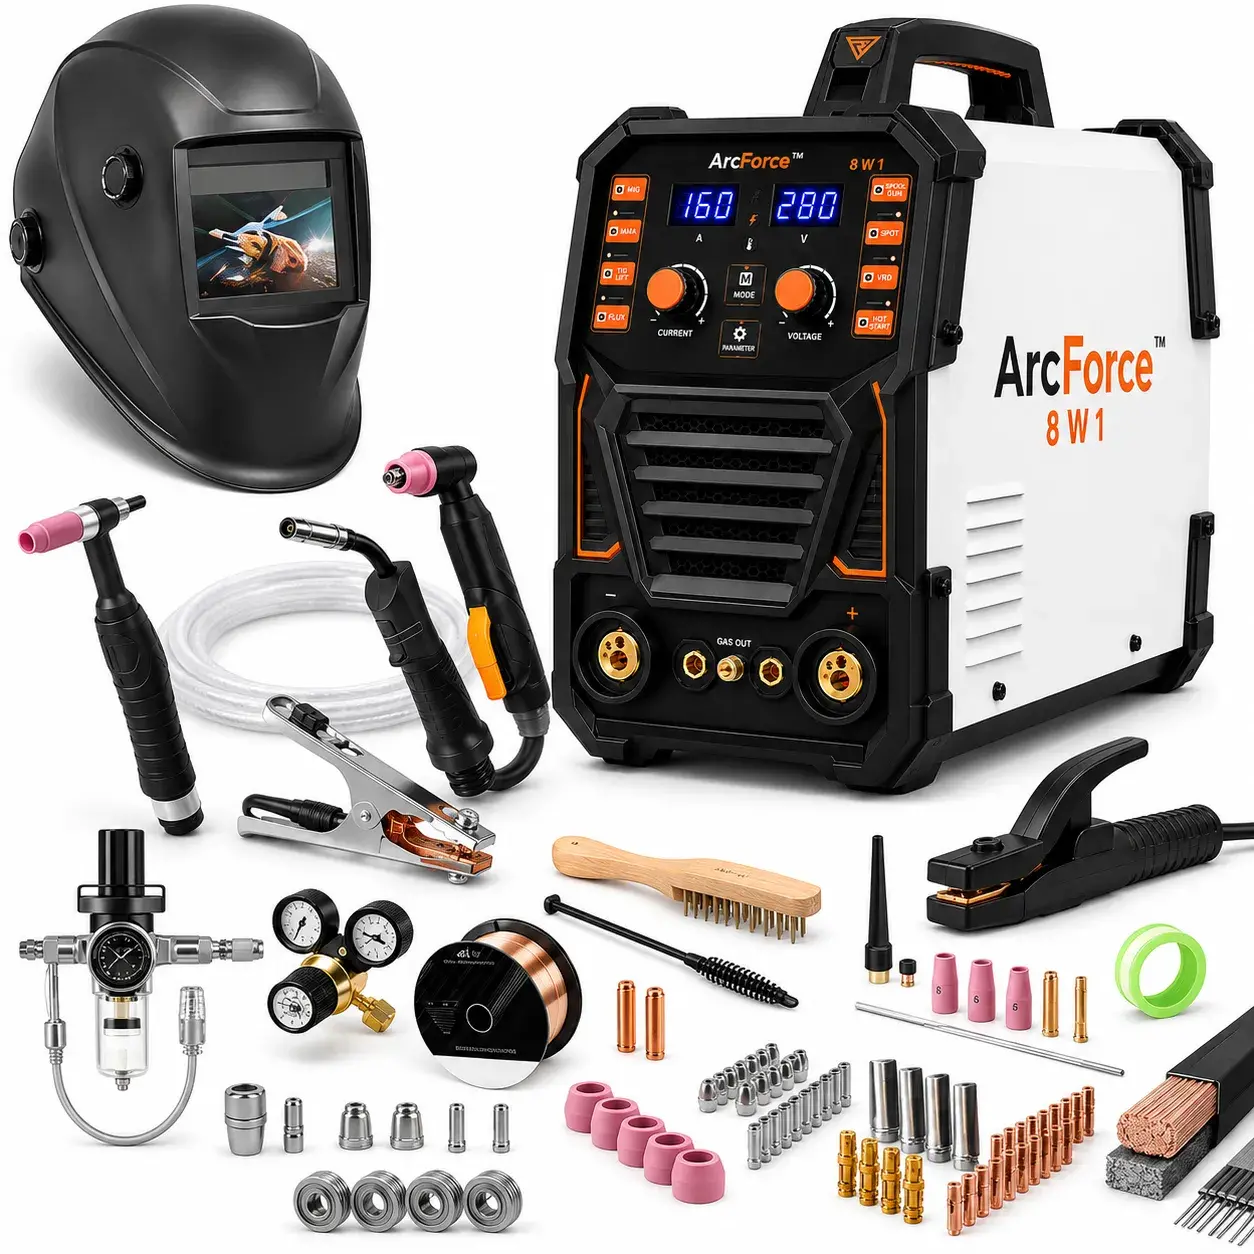
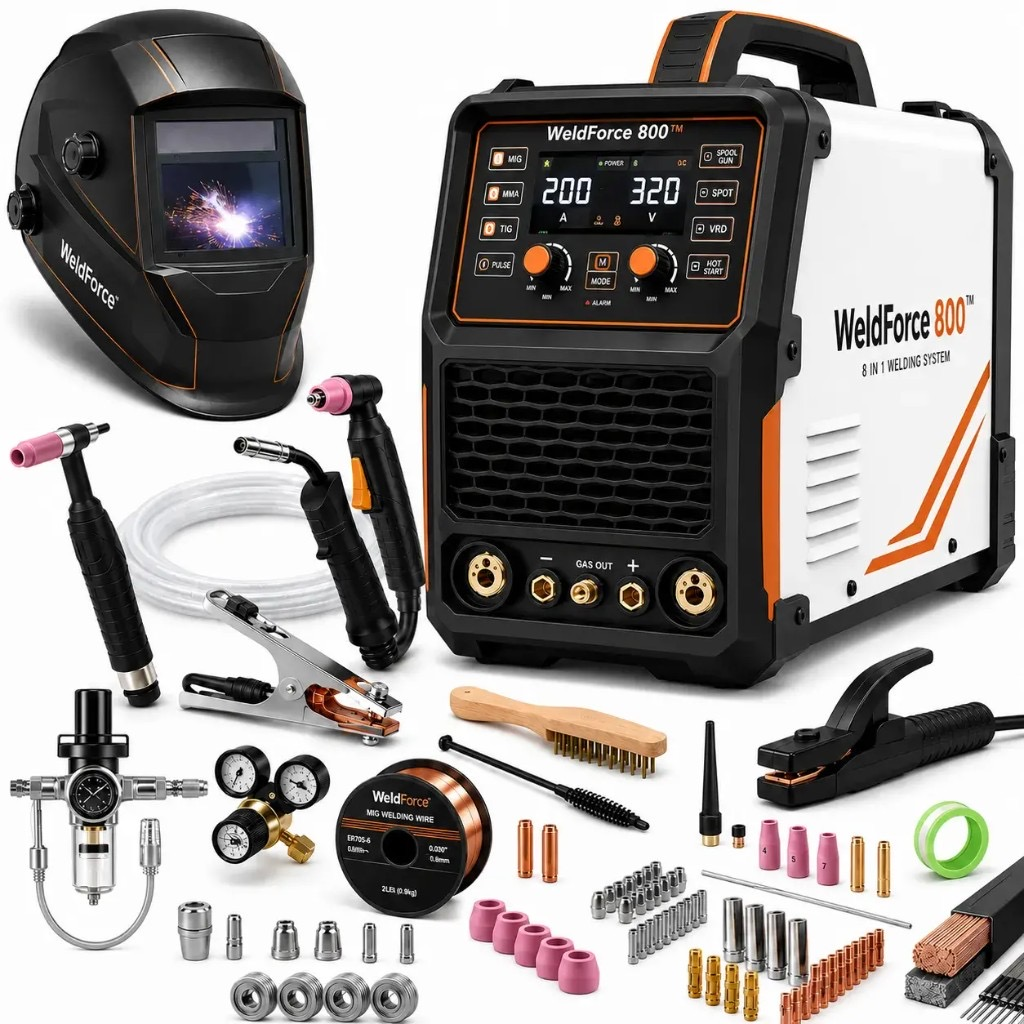
Replace ArcForce assets with WeldForce 800 product photos

diff --git a/it/arcforce/landing.html b/it/arcforce/landing.html
@@ -20,13 +20,13 @@
 <meta property="og:type" content="product">
 <meta property="og:title" content="WeldForce 800™ — Saldatrice 8 in 1 | -70% Solo Oggi">
 <meta property="og:description" content="Saldatrice professionale 8 in 1 senza bombola. Presa 220V, controllo automatico. Pagamento alla consegna.">
-<meta property="og:image" content="https://powercurvemedia.com/assets/img/products/arcforce/hero.webp">
+<meta property="og:image" content="https://powercurvemedia.com/assets/img/products/arcforce/hero.png">
 <meta property="og:url" content="https://powercurvemedia.com/it/arcforce/landing.html">
 <meta name="twitter:card" content="summary_large_image">
 <link rel="icon" type="image/svg+xml" href="/favicon.svg">
 <link rel="preconnect" href="https://fonts.googleapis.com">
 <link rel="preconnect" href="https://fonts.gstatic.com" crossorigin>
-<link rel="preload" as="image" type="image/webp" href="/assets/img/products/arcforce/hero.webp" fetchpriority="high">
+<link rel="preload" as="image" type="image/png" href="/assets/img/products/arcforce/hero.png" fetchpriority="high">
 <link rel="stylesheet" href="https://fonts.googleapis.com/css2?family=Montserrat:wght@400;600;700;800;900&display=swap">
 <link rel="stylesheet" href="/assets/css/variables.css">
 <link rel="stylesheet" href="/assets/css/reset.css">
@@ -249,7 +249,7 @@
   "@context": "https://schema.org",
   "@type": "Product",
   "name": "WeldForce 800™ — Saldatrice Professionale 8 in 1",
-  "image": "https://powercurvemedia.com/assets/img/products/arcforce/hero.webp",
+  "image": "https://powercurvemedia.com/assets/img/products/arcforce/hero.png",
   "description": "Saldatrice professionale 8 in 1: laser, MIG senza gas, TIG, elettrodo, punti e taglio. Funziona con presa 220V. Salda alluminio, ghisa, acciaio, ferro e inox.",
   "brand": { "@type": "Brand", "name": "WeldForce 800" },
   "offers": {
@@ -283,12 +283,12 @@ window.SITE_CONFIG = {
   COOKIE_LEARN: 'Scopri di più'
 };
 window.POPUP_PURCHASES = [
-  { "initial": "A", "name": "Andrea P.", "image": "/assets/img/reviews/arcforce/popup-1.webp", "message": " ha appena ordinato WeldForce 800™", "time": "2 minuti fa, Milano" },
-  { "initial": "M", "name": "Michele D.", "image": "/assets/img/reviews/arcforce/popup-2.webp", "message": " ha appena confermato l'ordine", "time": "5 minuti fa, Torino" },
-  { "initial": "F", "name": "Fabio L.", "image": "/assets/img/reviews/arcforce/popup-3.webp", "message": " ha appena acquistato WeldForce 800™", "time": "8 minuti fa, Napoli" },
-  { "initial": "L", "name": "Luca R.", "image": "/assets/img/reviews/arcforce/popup-1.webp", "message": " ha completato l'ordine", "time": "12 minuti fa, Roma" },
-  { "initial": "G", "name": "Giuseppe B.", "image": "/assets/img/reviews/arcforce/popup-2.webp", "message": " ha appena ordinato (consegna domani)", "time": "18 minuti fa, Bologna" },
-  { "initial": "S", "name": "Stefano M.", "image": "/assets/img/reviews/arcforce/popup-3.webp", "message": " ha confermato il suo ordine", "time": "24 minuti fa, Firenze" }
+  { "initial": "A", "name": "Andrea P.", "image": "/assets/img/reviews/arcforce/popup-1.png", "message": " ha appena ordinato WeldForce 800™", "time": "2 minuti fa, Milano" },
+  { "initial": "M", "name": "Michele D.", "image": "/assets/img/reviews/arcforce/popup-2.png", "message": " ha appena confermato l'ordine", "time": "5 minuti fa, Torino" },
+  { "initial": "F", "name": "Fabio L.", "image": "/assets/img/reviews/arcforce/popup-3.png", "message": " ha appena acquistato WeldForce 800™", "time": "8 minuti fa, Napoli" },
+  { "initial": "L", "name": "Luca R.", "image": "/assets/img/reviews/arcforce/popup-1.png", "message": " ha completato l'ordine", "time": "12 minuti fa, Roma" },
+  { "initial": "G", "name": "Giuseppe B.", "image": "/assets/img/reviews/arcforce/popup-2.png", "message": " ha appena ordinato (consegna domani)", "time": "18 minuti fa, Bologna" },
+  { "initial": "S", "name": "Stefano M.", "image": "/assets/img/reviews/arcforce/popup-3.png", "message": " ha confermato il suo ordine", "time": "24 minuti fa, Firenze" }
 ];
 </script>
 <script src="/assets/js/tracking.js" defer></script>
@@ -324,7 +324,7 @@ window.POPUP_PURCHASES = [
     <h1 class="hero-headline__title">Saldatrice Professionale 8 in 1 ⚡ Salda Automaticamente Ogni Materiale</h1>
     <p class="hero-headline__subtitle">Oltre 8.700 persone hanno già sostituito i loro vecchi saldatori: un solo dispositivo compatto per saldatura laser, MIG senza gas, TIG e ad elettrodo. <strong>Funziona con la normale presa da 220V</strong> e salda alluminio, ghisa, acciaio, ferro e inox — anche sott'acqua.</p>
     <div class="hero-headline__image">
-      <img src="/assets/img/products/arcforce/hero.webp" alt="WeldForce 800™ — saldatrice professionale 8 in 1 senza bombola" title="WeldForce 800™ Saldatrice 8 in 1" width="520" height="400" loading="eager" fetchpriority="high" decoding="async" onerror="this.src='/assets/img/placeholder.svg'">
+      <img src="/assets/img/products/arcforce/hero.png" alt="WeldForce 800™ — saldatrice professionale 8 in 1 senza bombola" title="WeldForce 800™ Saldatrice 8 in 1" width="520" height="400" loading="eager" fetchpriority="high" decoding="async" onerror="this.src='/assets/img/placeholder.svg'">
     </div>
   </div>
 </section>
@@ -423,7 +423,7 @@ window.POPUP_PURCHASES = [
   <div class="container">
     <div class="feature-benefit__inner">
       <figure class="feature-benefit__image">
-        <img src="/assets/img/products/arcforce/feature-1.webp" alt="Saldatrice 8 in 1 con funzioni multiple" width="540" height="400" loading="lazy" decoding="async" onerror="this.src='/assets/img/placeholder.svg'">
+        <img src="/assets/img/products/arcforce/feature-1.png" alt="Saldatrice 8 in 1 con funzioni multiple" width="540" height="400" loading="lazy" decoding="async" onerror="this.src='/assets/img/placeholder.svg'">
       </figure>
       <div>
         <span class="feature-benefit__label">01 — Un solo dispositivo per ogni lavoro</span>
@@ -447,7 +447,7 @@ window.POPUP_PURCHASES = [
   <div class="container">
     <div class="feature-benefit__inner">
       <figure class="feature-benefit__image">
-        <img src="/assets/img/products/arcforce/feature-2.webp" alt="Sistema di controllo automatico presa 220V" width="540" height="400" loading="lazy" decoding="async" onerror="this.src='/assets/img/placeholder.svg'">
+        <img src="/assets/img/products/arcforce/feature-2.png" alt="Sistema di controllo automatico presa 220V" width="540" height="400" loading="lazy" decoding="async" onerror="this.src='/assets/img/placeholder.svg'">
       </figure>
       <div>
         <span class="feature-benefit__label">02 — Controllo automatico, nessuna installazione industriale</span>
@@ -471,7 +471,7 @@ window.POPUP_PURCHASES = [
   <div class="container">
     <div class="feature-benefit__inner">
       <figure class="feature-benefit__image">
-        <img src="/assets/img/products/arcforce/feature-3.webp" alt="Saldatura su alluminio acciaio e inox anche sott'acqua" width="540" height="400" loading="lazy" decoding="async" onerror="this.src='/assets/img/placeholder.svg'">
+        <img src="/assets/img/products/arcforce/feature-3.png" alt="Saldatura su alluminio acciaio e inox anche sott'acqua" width="540" height="400" loading="lazy" decoding="async" onerror="this.src='/assets/img/placeholder.svg'">
       </figure>
       <div>
         <span class="feature-benefit__label">03 — Salda ogni materiale, anche sott'acqua</span>
@@ -547,40 +547,40 @@ window.POPUP_PURCHASES = [
     <div class="reviews-grid__list">
       <article class="review-card">
         <div class="review-card__header">
-          <img class="review-card__avatar" src="/assets/img/reviews/arcforce/review-1.webp" alt="WeldForce 800 usata su un pezzo in alluminio" width="640" height="640" loading="lazy" decoding="async" onerror="this.src='/assets/img/placeholder.svg'">
+          <img class="review-card__avatar" src="/assets/img/reviews/arcforce/review-1.png" alt="WeldForce 800 usata su un pezzo in alluminio" width="640" height="640" loading="lazy" decoding="async" onerror="this.src='/assets/img/placeholder.svg'">
           <div class="review-card__person"></div>
         </div>
         <div class="review-card__stars">★★★★★</div>
         <h3 class="review-card__title">Potente e facile anche per chi inizia.</h3>
         <p class="review-card__text">«Mi aspettavo qualcosa di complicato, invece dopo due prove ho chiuso un pezzo in alluminio e uno in inox. Potenza buona e comandi chiari.»</p>
         <div class="review-card__author">
-          <img src="/assets/img/reviews/arcforce/popup-1.webp" alt="" width="40" height="40" loading="lazy">
+          <img src="/assets/img/reviews/arcforce/popup-1.png" alt="" width="40" height="40" loading="lazy">
           <span class="review-card__author-name">Andrea P. — Milano, Cliente verificato</span>
         </div>
       </article>
       <article class="review-card">
         <div class="review-card__header">
-          <img class="review-card__avatar" src="/assets/img/reviews/arcforce/review-2.webp" alt="WeldForce 800 collegata a una presa standard in garage" width="640" height="640" loading="lazy" decoding="async" onerror="this.src='/assets/img/placeholder.svg'">
+          <img class="review-card__avatar" src="/assets/img/reviews/arcforce/review-2.png" alt="WeldForce 800 collegata a una presa standard in garage" width="640" height="640" loading="lazy" decoding="async" onerror="this.src='/assets/img/placeholder.svg'">
           <div class="review-card__person"></div>
         </div>
         <div class="review-card__stars">★★★★★</div>
         <h3 class="review-card__title">Pronto all'uso, nessuna installazione industriale.</h3>
         <p class="review-card__text">«L'ho collegata alla presa del garage e in cinque minuti stavo già lavorando. Nessuna installazione strana: perfetta per i lavoretti di casa.»</p>
         <div class="review-card__author">
-          <img src="/assets/img/reviews/arcforce/popup-2.webp" alt="" width="40" height="40" loading="lazy">
+          <img src="/assets/img/reviews/arcforce/popup-2.png" alt="" width="40" height="40" loading="lazy">
           <span class="review-card__author-name">Michele D. — Torino, Cliente verificato</span>
         </div>
       </article>
       <article class="review-card">
         <div class="review-card__header">
-          <img class="review-card__avatar" src="/assets/img/reviews/arcforce/review-3.webp" alt="Pulizia laser su un pezzo arrugginito" width="640" height="640" loading="lazy" decoding="async" onerror="this.src='/assets/img/placeholder.svg'">
+          <img class="review-card__avatar" src="/assets/img/reviews/arcforce/review-3.png" alt="Pulizia laser su un pezzo arrugginito" width="640" height="640" loading="lazy" decoding="async" onerror="this.src='/assets/img/placeholder.svg'">
           <div class="review-card__person"></div>
         </div>
         <div class="review-card__stars">★★★★★</div>
         <h3 class="review-card__title">La pulizia laser è incredibile.</h3>
         <p class="review-card__text">«Sui pezzi arrugginiti la pulizia laser fa la differenza: in pochi minuti la superficie torna lavorabile, senza stare ore con la spazzola.»</p>
         <div class="review-card__author">
-          <img src="/assets/img/reviews/arcforce/popup-3.webp" alt="" width="40" height="40" loading="lazy">
+          <img src="/assets/img/reviews/arcforce/popup-3.png" alt="" width="40" height="40" loading="lazy">
           <span class="review-card__author-name">Fabio L. — Napoli, Cliente verificato</span>
         </div>
       </article>
@@ -594,7 +594,7 @@ window.POPUP_PURCHASES = [
     <h2 class="section__title">Kit completo WeldForce 800™, pronto all'uso</h2>
     <div class="package-content__inner">
       <figure class="package-content__image">
-        <img src="/assets/img/products/arcforce/package.webp" alt="Kit completo WeldForce 800" width="640" height="480" loading="lazy" decoding="async" onerror="this.src='/assets/img/placeholder.svg'">
+        <img src="/assets/img/products/arcforce/package.png" alt="Kit completo WeldForce 800" width="640" height="480" loading="lazy" decoding="async" onerror="this.src='/assets/img/placeholder.svg'">
       </figure>
       <ul class="package-content__list">
         <li>Saldatrice 8 in 1 — laser, MIG senza gas, TIG, elettrodo, punti e taglio</li>

diff --git a/index.html b/index.html
@@ -422,8 +422,7 @@
         <a href="/it/arcforce/landing.html" class="featured__photo">
           <span class="featured__discount-badge">-70%</span>
           <picture>
-            <source type="image/webp" srcset="/assets/img/products/arcforce/hero.webp">
-            <img src="/assets/img/products/arcforce/hero.webp" alt="WeldForce 800™ — saldatrice professionale 8 in 1 senza bombola" loading="lazy" decoding="async" width="1040" height="1040" onerror="this.src='/assets/img/placeholder.svg'">
+            <img src="/assets/img/products/arcforce/hero.png" alt="WeldForce 800™ — saldatrice professionale 8 in 1 senza bombola" loading="lazy" decoding="async" width="1040" height="1040" onerror="this.src='/assets/img/placeholder.svg'">
           </picture>
         </a>
         <div class="featured__body">
